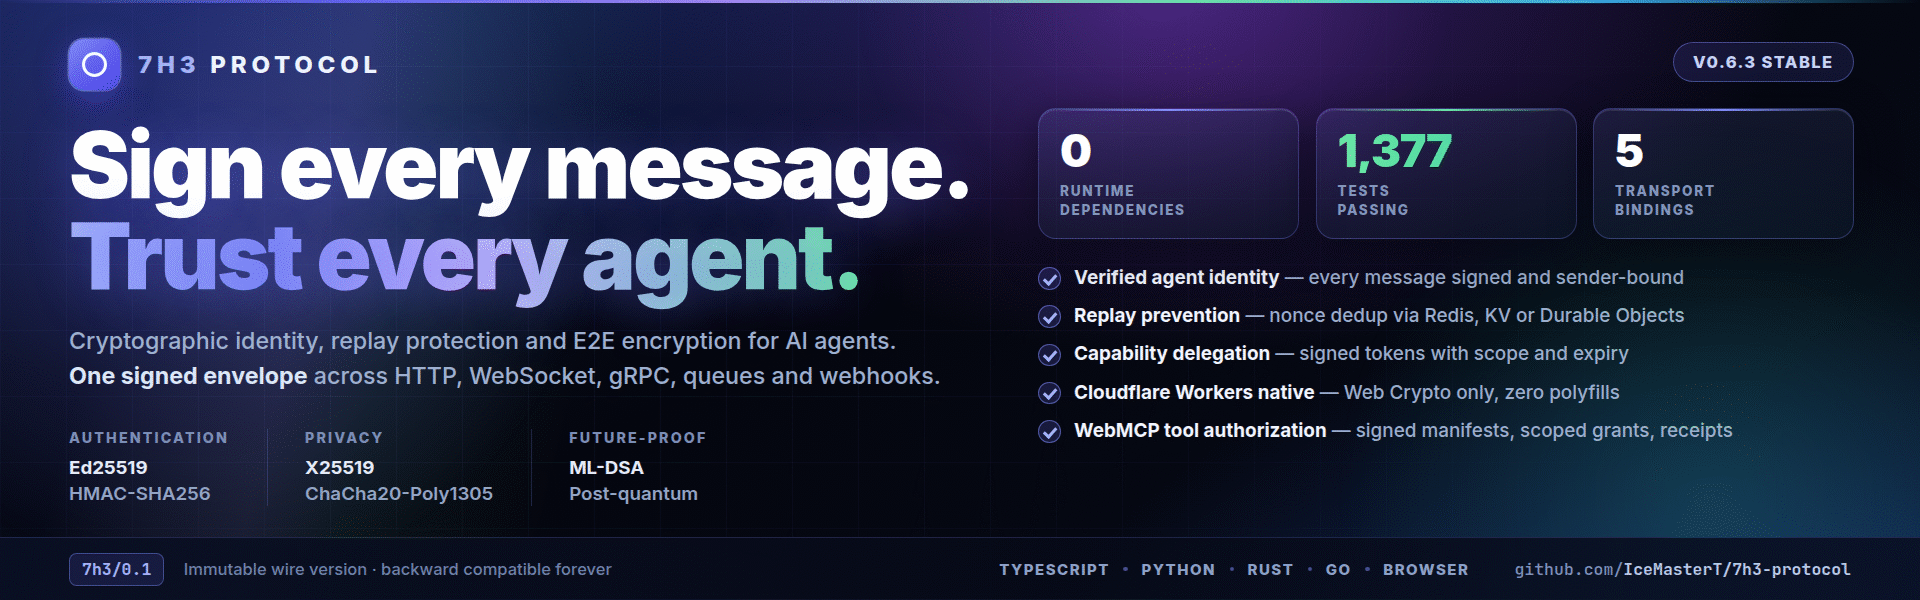
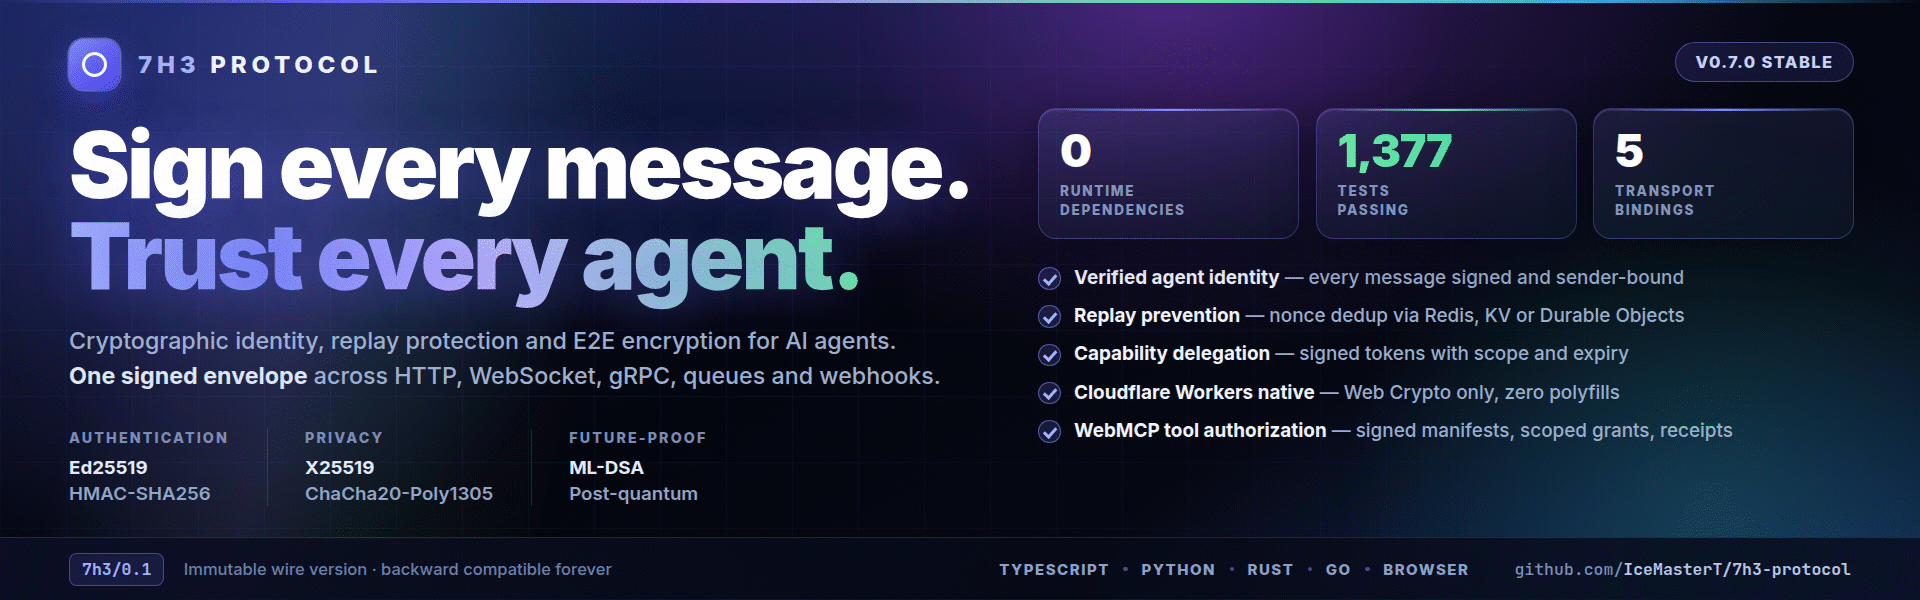
chore(release): @7h3/protocol 0.7.0 (#139)
Claude-Session: https://claude.ai/code/session_01QfDrWM7JtaKYRbnGcGSwiz

diff --git a/docs/assets/banner-github.html b/docs/assets/banner-github.html
@@ -261,7 +261,7 @@
     <!-- RIGHT -->
     <div class="right">
       <div class="pills">
-        <div class="pill pill-ver">v0.6.3 stable</div>
+        <div class="pill pill-ver">v0.7.0 stable</div>
       </div>
 
       <div class="stats">

diff --git a/CHANGELOG.md b/CHANGELOG.md
@@ -6,7 +6,13 @@ This project adheres to [Semantic Versioning](https://semver.org/spec/v2.0.0.htm
 
 ---
 
-## Unreleased
+## v0.7.0 — `@7h3/protocol` 0.7.0
+
+Authority, standards and agent-identity release: step-up approval, provenance,
+prompt-injection containment, RFC 9421 / Web Bot Auth / DPoP, MCP tool pinning
+and signed SSE, agent identity and key transparency, and payment mandates. All
+additive; TypeScript only. Only `@7h3/protocol` is republished: the other
+packages changed only in development dependencies.
 
 ### Added
 
